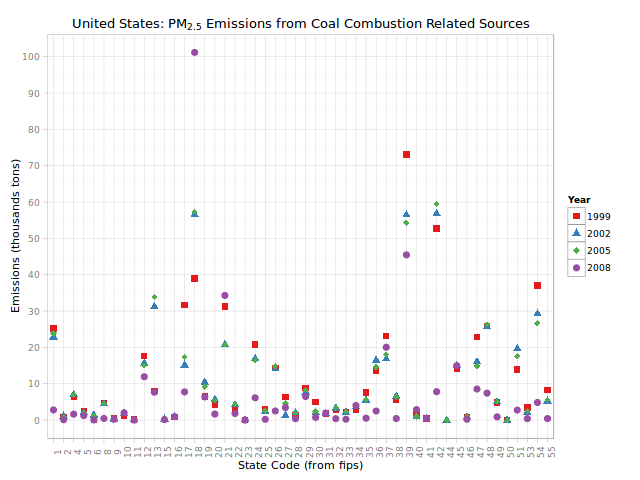
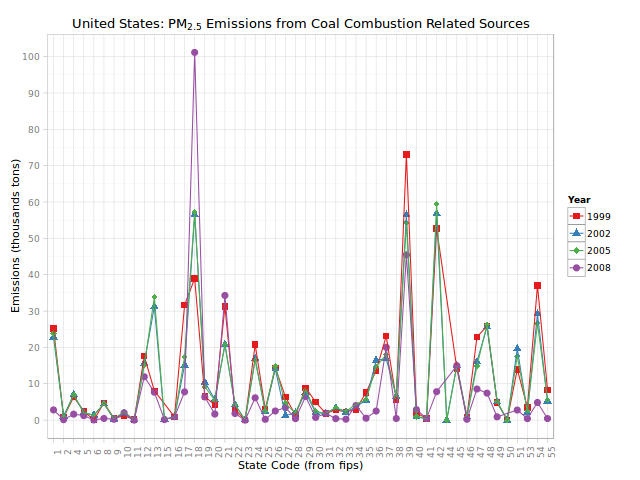
add line segments to points, corrected titles, cleaned up readme

Changed region(s): [[0.5625, 0.3438, 0.875, 0.875], [0.0938, 0.125, 0.5625, 0.875], [0.0625, 0.6875, 0.0938, 0.7812]]

diff --git a/README.md b/README.md
@@ -18,13 +18,13 @@ the years 1999, 2002, 2005, and 2008.
 The plot below shows that the total emissions from PM2.5 have decreased in the
 United States from 1999 to 2008.
 
-### (a)
-![PM[2.5] Emission totals for all sources](plot1a.png)
+### (1a)
+![](plot1a.png)
 
 [source (plot1a.R)](plot1a.R)
 
-### (b)
-![PM[2.5] Emission totals for all sources](plot1b.png)
+### (1b)
+![](plot1b.png)
 
 [source (plot1b.R)](plot1b.R)
 
@@ -39,8 +39,8 @@ have been decreasing from 1999 to 2008.
 
 * Baltimore City, Maryland (`fips` == "24510")
 
-### (a)
-![PM[2.5] Emission totals for Baltimore City, Maryland](plot2a.png)
+### (2a)
+![](plot2a.png)
 
 [source (plot2a.R)](plot2a.R)
 
@@ -55,8 +55,8 @@ from 1999–2008 for Baltimore City? Which have seen increases in emissions from
 A linear regression model indicates that only the `point` source has
 increased emissions over the years 1999 to 2008.
 
-### (a)
-![PM[2.5] Emission by source types for Baltimore City, Maryland](plot3a.png)
+### (3a)
+![](plot3a.png)
 
 [source (plot3a.R)](plot3a.R)
 
@@ -69,28 +69,28 @@ sources changed from 1999–2008?*
 Point emissions from coal combustion-related sources have decreased. Non-point
 emissions from coal combustion-related sources have remained static.
 
-### (a)
-![PM[2.5] Emissions from coal combustion-related sources across United States](plot4a.png)
+### (4a)
+![](plot4a.png)
 
 [source (plot4a.R)](plot4a.R)
 
-### (b)
-![PM[2.5] Emissions from coal combustion-related sources across United States](plot4b.png)
+### (4b)
+![](plot4b.png)
 
 [source (plot4b.R)](plot4b.R)
 
-### (c)
-![PM[2.5] Emissions from coal combustion-related sources across United States](plot4c.png)
+### (4c)
+![](plot4c.png)
 
 [source (plot4c.R)](plot4c.R)
 
-### (d)
-![PM[2.5] Emissions from coal combustion-related sources across United States](plot4d.png)
+### (4d)
+![](plot4d.png)
 
 [source (plot4d.R)](plot4d.R)
 
-### (e)
-![PM[2.5] Emissions from coal combustion-related sources across United States](plot4e.png)
+### (4e)
+![](plot4e.png)
 
 [source (plot4e.R)](plot4e.R)
 
@@ -102,13 +102,13 @@ Baltimore City?*
 
 There has been an overall reduction in motor vehicle emissions.
 
-### (a)
-![PM[2.5] Emissions from motor vehicle sources in Baltimore City](plot5a.png)
+### (5a)
+![](plot5a.png)
 
 [source (plot5a.R)](plot5a.R)
 
-### (b)
-![PM[2.5] Emissions from motor vehicle sources in Baltimore City](plot5b.png)
+### (5b)
+![](plot5b.png)
 
 [source (plot5b.R)](plot5b.R)
 
@@ -124,18 +124,18 @@ seen greater changes over time in motor vehicle emissions?*
 
 Los Angeles County has seen seen the greatest fluctuation in emissions.
 
-### (a)
-![PM[2.5] Emissions from motor vehicle sources in Baltimore City](plot6a.png)
+### (6a)
+![](plot6a.png)
 
 [source (plot6a.R)](plot6a.R)
 
-### (b)
-![PM[2.5] Emissions from motor vehicle sources in Baltimore City](plot6b.png)
+### (6b)
+![](plot6b.png)
 
 [source (plot6b.R)](plot6b.R)
 
-### (c)
-![PM[2.5] Emissions from motor vehicle sources in Baltimore City](plot6c.png)
+### (6c)
+![](plot6c.png)
 
 [source (plot6c.R)](plot6c.R)
 
